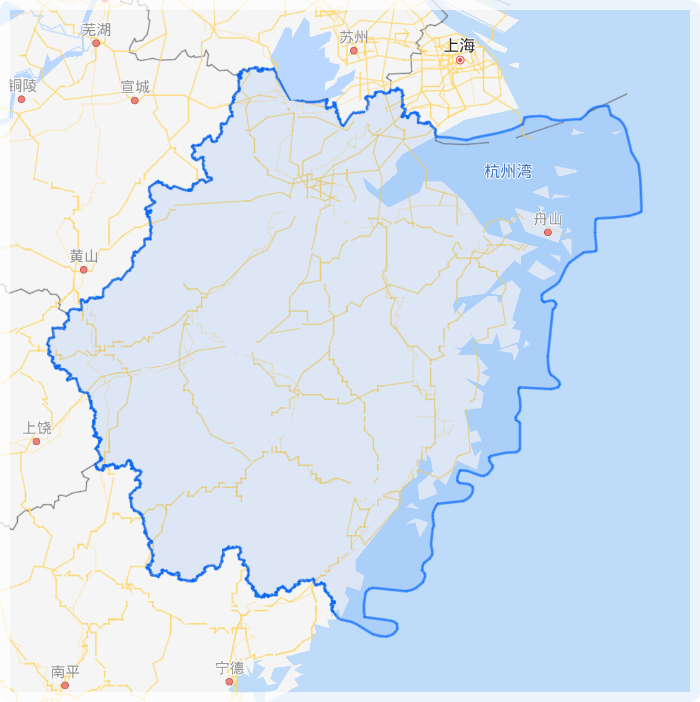
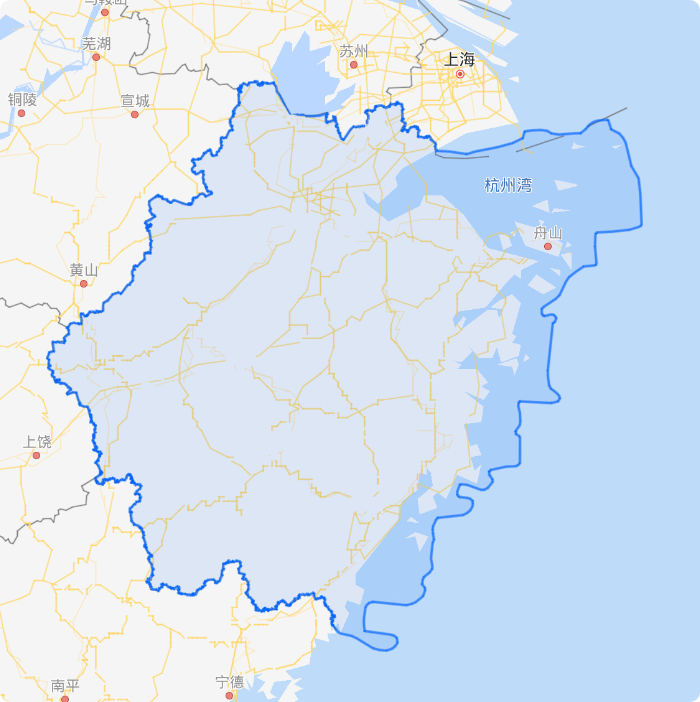
新加大区

Changed region(s): [[0.0, 0.0, 1.0, 1.0], [0.27, 0.5684, 0.3, 0.6282], [0.0, 0.9872, 0.03, 1.0]]

diff --git a/src/components/largeArea.vue b/src/components/largeArea.vue
@@ -50,10 +50,12 @@
                     <p class="loc_tit">私人银行服务在身边</p>
                     <!-- 浙江大区 -->
                     <div class="locOne locOneZ1"  @click="tolocation($event,'Z1','杭州')"><img src="./img/locationChoose.png" class="locImg locImgChoose" v-show="true"/><img src="./img/location.png" class="locImg" v-show="false"/>杭州体验中心</div>
-                    <div class="locOne locOneZ2"  @click="tolocation($event,'Z2','金华')"><img src="./img/locationChoose.png" class="locImg locImgChoose" v-show="false"/><img src="./img/location.png" class="locImg" v-show="true"/>金华体验中心</div>
+                    <div class="locOne locOneZ2"  @click="tolocation($event,'Z2','湖州')"><img src="./img/locationChoose.png" class="locImg locImgChoose" v-show="false"/><img src="./img/location.png" class="locImg" v-show="true"/>湖州一部体验中心</div>
                     <div class="locOne locOneZ3"  @click="tolocation($event,'Z3','宁波')"><img src="./img/locationChoose.png" class="locImg locImgChoose" v-show="false"/><img src="./img/location.png" class="locImg" v-show="true"/>宁波体验中心</div>
                     <div class="locOne locOneZ4"  @click="tolocation($event,'Z4','温州')"><img src="./img/locationChoose.png" class="locImg locImgChoose" v-show="false"/><img src="./img/location.png" class="locImg" v-show="true"/>温州体验中心</div>
                     <div class="locOne locOneZ5"  @click="tolocation($event,'Z5','义乌')"><img src="./img/locationChoose.png" class="locImg locImgChoose" v-show="false"/><img src="./img/location.png" class="locImg" v-show="true"/>义乌体验中心</div>
+                    <div class="locOne locOneZ6"  @click="tolocation($event,'Z6','慈溪')"><img src="./img/locationChoose.png" class="locImg locImgChoose" v-show="false"/><img src="./img/location.png" class="locImg" v-show="true"/>慈溪体验中心</div>
+                    <div class="locOne locOneZ7"  @click="tolocation($event,'Z7','富阳')"><img src="./img/locationChoose.png" class="locImg locImgChoose" v-show="false"/><img src="./img/location.png" class="locImg" v-show="true"/>富阳体验中心</div>
                 </div>
                  <div class="expCenter">
                     <!-- <div class="expOne">杭州一部体验中心</div><div class="expOne">杭州一部体验中心</div><div class="expOne">杭州一部体验中心</div> -->
@@ -64,13 +66,28 @@
                 <img src="./img/mapX.png" class="map"/>
                 <div class="location locationZ">
                     <p class="loc_tit">私人银行服务在身边</p>
-                    <!-- 浙江大区 -->
+                    <!-- 西南大区 -->
                     <div class="locOne locOneX1"  @click="tolocation($event,'X1','成都')"><img src="./img/locationChoose.png" class="locImg locImgChoose" v-show="true"/><img src="./img/location.png" class="locImg" v-show="false"/>成都体验中心</div>
                     <div class="locOne locOneX2"  @click="tolocation($event,'X2','贵阳')"><img src="./img/locationChoose.png" class="locImg locImgChoose" v-show="false"/><img src="./img/location.png" class="locImg" v-show="true"/>贵阳体验中心</div>
                     <div class="locOne locOneX3"  @click="tolocation($event,'X3','昆明')"><img src="./img/locationChoose.png" class="locImg locImgChoose" v-show="false"/><img src="./img/location.png" class="locImg" v-show="true"/>昆明体验中心</div>
                     <div class="locOne locOneX4"  @click="tolocation($event,'X4','南宁')"><img src="./img/locationChoose.png" class="locImg locImgChoose" v-show="false"/><img src="./img/location.png" class="locImg" v-show="true"/>南宁体验中心</div>
                     <div class="locOne locOneX5"  @click="tolocation($event,'X5','玉溪')"><img src="./img/locationChoose.png" class="locImg locImgChoose" v-show="false"/><img src="./img/location.png" class="locImg" v-show="true"/>玉溪体验中心</div>
                     <div class="locOne locOneX6"  @click="tolocation($event,'X6','重庆')"><img src="./img/locationChoose.png" class="locImg locImgChoose" v-show="false"/><img src="./img/location.png" class="locImg" v-show="true"/>重庆体验中心</div>
+                </div>
+                 <div class="expCenter">
+                    <!-- <div class="expOne">杭州一部体验中心</div><div class="expOne">杭州一部体验中心</div><div class="expOne">杭州一部体验中心</div> -->
+                    <div class="expOne" v-for="item in centerList" @click="jumpExp(item.groupId)">{{item.centerName}}</div>
+                </div>
+             </div> <!-- -->
+            <div class="areaMapBox" v-if='areaId=="2e786cbcd4554872ab06686f72a98611"'>
+                <img src="./img/mapS.png" class="map"/>
+                <div class="location locationZ">
+                    <p class="loc_tit">私人银行服务在身边</p>
+                    <!-- 私行大区 -->
+                    <div class="locOne locOnes1"  @click="tolocation($event,'s1','北京')"><img src="./img/locationChoose.png" class="locImg locImgChoose" v-show="true"/><img src="./img/location.png" class="locImg" v-show="false"/>北京体验中心</div>
+                    <div class="locOne locOnes2"  @click="tolocation($event,'s2','温州')"><img src="./img/locationChoose.png" class="locImg locImgChoose" v-show="false"/><img src="./img/location.png" class="locImg" v-show="true"/>温州体验中心</div>
+                    <div class="locOne locOnes3"  @click="tolocation($event,'s3','兰州')"><img src="./img/locationChoose.png" class="locImg locImgChoose" v-show="false"/><img src="./img/location.png" class="locImg" v-show="true"/>兰州体验中心</div>
+                    <div class="locOne locOnes4"  @click="tolocation($event,'s4','南京')"><img src="./img/locationChoose.png" class="locImg locImgChoose" v-show="false"/><img src="./img/location.png" class="locImg" v-show="true"/>南京体验中心</div>
                 </div>
                  <div class="expCenter">
                     <!-- <div class="expOne">杭州一部体验中心</div><div class="expOne">杭州一部体验中心</div><div class="expOne">杭州一部体验中心</div> -->
@@ -210,17 +227,23 @@ export default {
             centerList:'',
             shareflag:'',
             centerListZ1:[{'centerName':'直属体验中心','groupId':'175390b5ebe94ba899451f4b12041b29'},{'centerName':'杭州一部体验中心','groupId':'5533b21cc352414fbec7d012f74f243a'},{'centerName':'杭州二部体验中心','groupId':'20f6e8a1d2d6444fb3a2c9079f16b3bc'}],
-            centerListZ2:[{'centerName':'金华体验中心','groupId':'f44a5f67030943038e41ae04ffe0f81d'}],
-            centerListZ3:[{'centerName':'宁波三部体验中心','groupId':'d10a21a0cd80457aa07f424fe0ac1b00'},{'centerName':'宁波四部体验中心','groupId':'0bcb5dc352cd4401b892f0a7c540a198'}],
+            centerListZ2:[{'centerName':'湖州一部体验中心','groupId':'20c5823bcbc641b089d7ff8ff60667dc'}],
+            centerListZ3:[{'centerName':'宁波市区体验中心','groupId':'d10a21a0cd80457aa07f424fe0ac1b00'},{'centerName':'余姚体验中心','groupId':'0bcb5dc352cd4401b892f0a7c540a198'}],
             centerListZ4:[{'centerName':' 温州一部体验中心','groupId':'07336b73be7e48f09a524ba996778deb'},{'centerName':' 温州二部体验中心','groupId':'1e4187451e294b1a90918ae8855845fe'}],
             centerListZ5:[{'centerName':'义乌体验中心','groupId':'4627cfdd362c45b8a090fd76c9ad977b'}],
+            centerListZ6:[{'centerName':'慈溪体验中心','groupId':'21abe5a8e3c44641ac297c5c3d67326b'}],
+            centerListZ7:[{'centerName':'富阳体验中心','groupId':'ede9999beccd40208a06049271653e0c'}],
             centerListX1:[{'centerName':'成都一部体验中心','groupId':'f04f44225ff444dca52bc1887b58caf0'},{'centerName':'成都二部体验中心','groupId':'30e096cd5b2944ffa49e42d802d7450f'},{'centerName':'成都三部体验中心','groupId':'7f3105fea9344409aadea1958eb86125'}],
             centerListX2:[{'centerName':'贵阳体验中心','groupId':'8997653549cb4b899cacf143c3d635df'}],
             centerListX3:[{'centerName':' 昆明一部体验中心','groupId':'e19015e0f5fb4d05933ae7b2f1196e18'},{'centerName':'昆明二部体验中心','groupId':'24a781f515734589be8698cd16b63d70'}],
             centerListX4:[{'centerName':' 南宁体验中心','groupId':'8468cc994d3b4fe889b24b8db259ca48'}],
             centerListX5:[{'centerName':'玉溪体验中心','groupId':'01e678abe8b04ea0b7b25fa8123fe314'}],
             centerListX6:[{'centerName':'重庆一部体验中心','groupId':'38eb04b2a4b843459876ac45b5f720ca'},{'centerName':'重庆二部体验中心','groupId':'57c3b8964cea49b8ba62e14754770e64'}],
-        }
+            centerListS1:[{'centerName':'私行第一体验中心','groupId':'8026d2d41c5d4c90a703bd5b58a4ac7e'},{'centerName':'私行第二体验中心','groupId':'0cf3dc41531a4ab0bfa07b59c66a6b37'},{'centerName':'私行第五体验中心','groupId':'b0219c64227b4bcc8ac3ee5507dc18c4'},{'centerName':'私行第九体验中心','groupId':'c3de10b461ea4303b72a1468fc173d31'},{'centerName':'私行第八体验中心','groupId':'9bbd01b440c644be9f05e191fe431756'},{'centerName':'私行第七体验中心','groupId':'c8cd1b66f57742bfa752a9016162730f'}],
+            centerListS2:[{'centerName':'私行第六体验中心','groupId':'446830e0762c463e86bc16af8276802c'}],
+            centerListS3:[{'centerName':' 私行第四体验中心','groupId':'57a985dc14db4854a9e89034a8e7a04d'}],
+            centerListS4:[{'centerName':' 私行第三体验中心','groupId':'07e4854378674ac7b99dd57c55817d15'}],
+       }
     },
     methods:{
         toCard(){
@@ -606,19 +629,22 @@ export default {
             }else if(z=='Z2'){
                 this.centerList=this.centerListZ2;
             }else if(z=='Z3'){
-
                 this.centerList=this.centerListZ3;
                 console.log(this.centerListZ3);
             }else if(z=='Z4'){
                 this.centerList=this.centerListZ4;
             }else if(z=='Z5'){
                 this.centerList=this.centerListZ5;
+            }else if(z=='Z6'){
+                this.centerList=this.centerListZ6;
+            }else if(z=='Z7'){
+                this.centerList=this.centerListZ7;
             }else if(z=='X1'){//西南大区
+
                 this.centerList=this.centerListX1;
             }else if(z=='X2'){
                 this.centerList=this.centerListX2;
             }else if(z=='X3'){
-
                 this.centerList=this.centerListX3;
                 console.log(this.centerListX3);
             }else if(z=='X4'){
@@ -627,6 +653,15 @@ export default {
                 this.centerList=this.centerListX5;
             }else if(z=='X6'){
                 this.centerList=this.centerListX6;
+            }else if(z=='s1'){//私行大区
+            
+                this.centerList=this.centerListS1;
+            }else if(z=='s2'){
+                this.centerList=this.centerListS2;
+            }else if(z=='s3'){
+                this.centerList=this.centerListS3;
+            }else if(z=='s4'){
+                this.centerList=this.centerListS4;
             }
            
         },
@@ -674,6 +709,8 @@ export default {
             this.centerList=this.centerListZ1;
         }else if(this.areaId=='708407bb88be4da89e5e59bdd4cc3c85'){
             this.centerList=this.centerListX1;
+        }else if(this.areaId=='2e786cbcd4554872ab06686f72a98611'){
+            this.centerList=this.centerListS1;
         }
         this.ifShare();//判断是不是分享到微信
         //this.client=this.$route.query.client;
@@ -705,19 +742,27 @@ export default {
         left: 33%;
     }
     .locationZ .locOneZ2{
-        top: 37%;
-        left: 32%;
+        top: 10%;
+        left: 36%;
     }
     .locationZ .locOneZ3{
         top: 29%;
         left: 64%;
     }
     .locationZ .locOneZ4{
-        top: 60%;
+        top: 61%;
         left: 41%;
     }
     .locationZ .locOneZ5{
-        top: 44%;
+        top: 50%;
+        left: 46%;
+    }
+    .locationZ .locOneZ6{
+        top: 23%;
+        left: 59%;
+    }
+      .locationZ .locOneZ7{
+        top: 33%;
         left: 39%;
     }
     .locationZ .locOneX1{
@@ -743,6 +788,22 @@ export default {
     .locationZ .locOneX6{
         top: 29%;
         left: 52%;
+    }
+      .locationZ .locOnes1{
+        top: 14%;
+        left: 55%;
+    }
+    .locationZ .locOnes2{
+        top: 64%;
+        left: 65%;
+    }
+    .locationZ .locOnes3{
+        top: 31%;
+        left: 14%;
+    }
+    .locationZ .locOnes4{
+        top: 47%;
+        left: 64%;
     }
     .locationZ .locImg{
         width:.506667rem;
